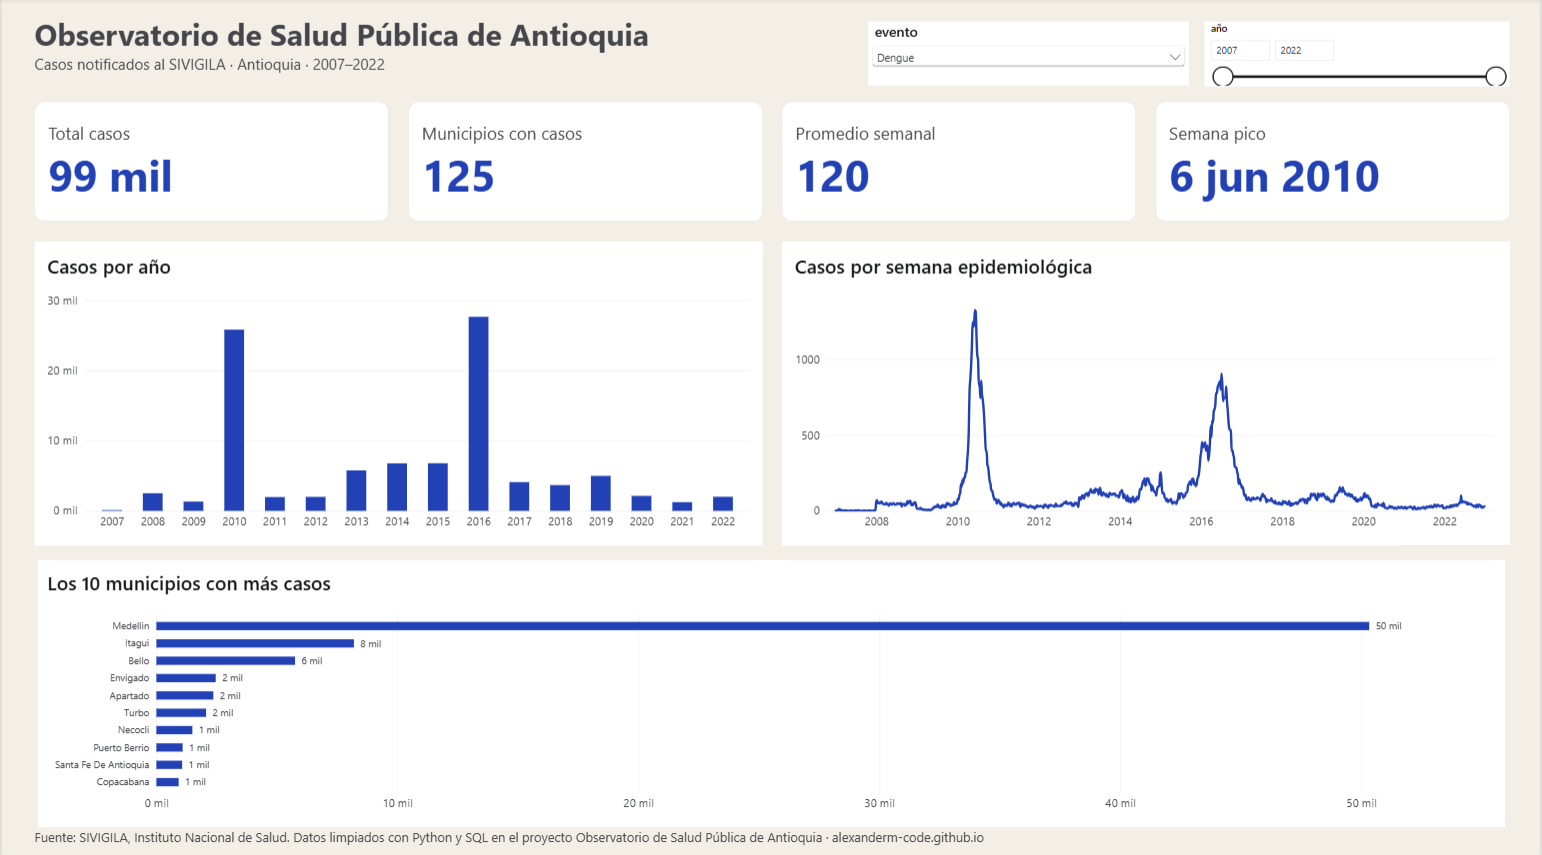
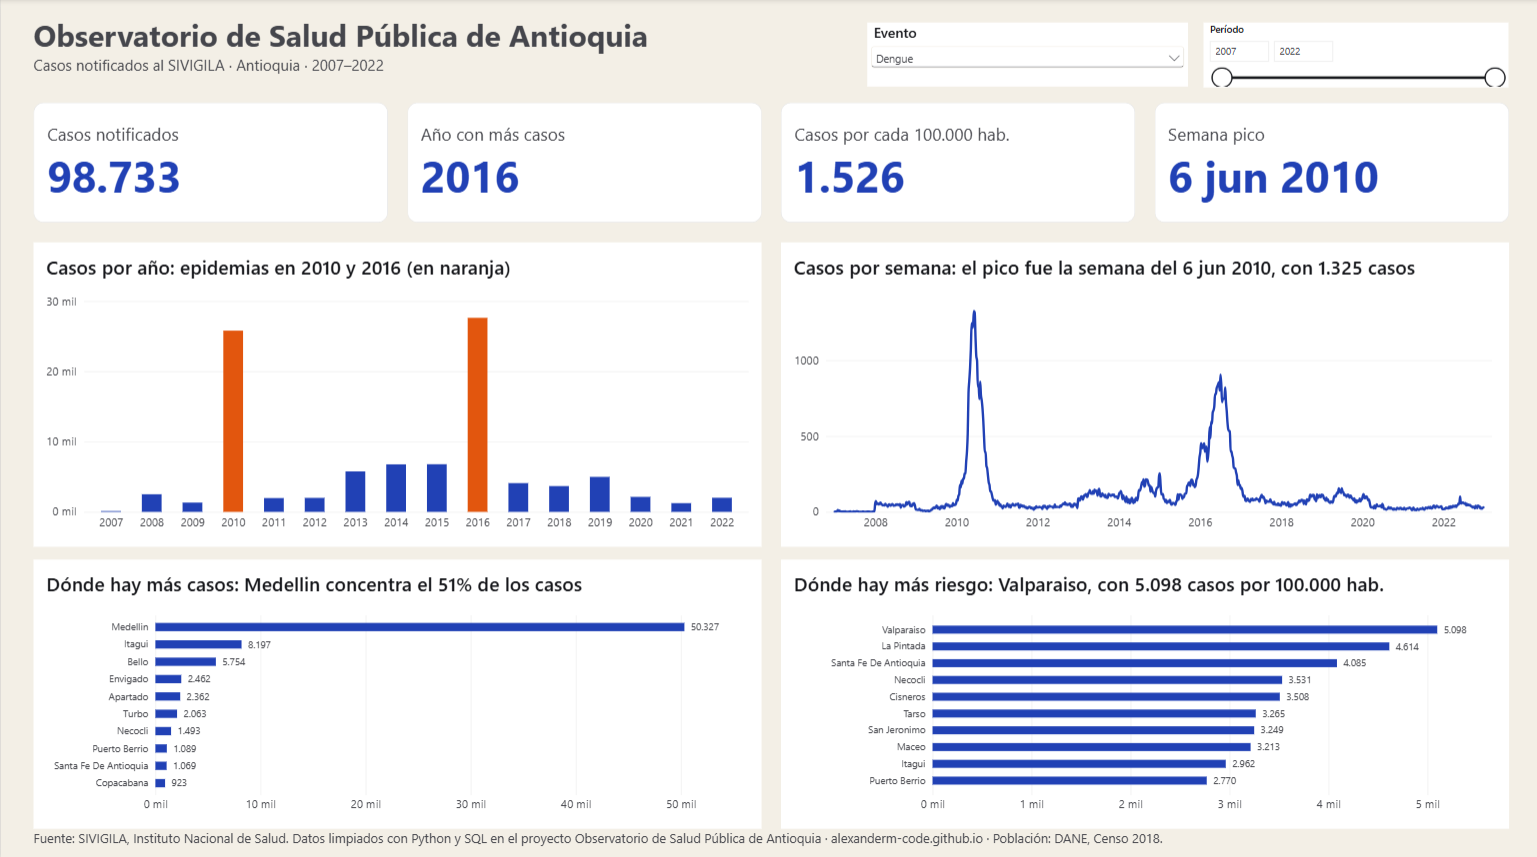
README: nueva captura y descripción del tablero de Power BI; población por municipio

diff --git a/README.md b/README.md
@@ -109,7 +109,7 @@ pytest -v
 
 ## Dashboards
 
-- **Power BI:** `powerbi/observatorio_salud_antioquia.pbix`, con medidas DAX para total de casos, municipios, promedio semanal y semana pico, y filtros por evento y año.
+- **Power BI:** `powerbi/observatorio_salud_antioquia.pbix`. Modelo con dos tablas (casos y población del Censo 2018), medidas DAX para la tasa por 100.000 habitantes, el año y la semana pico, años epidémicos resaltados con formato condicional y títulos dinámicos que cambian con el evento elegido.
 
   ![Tablero de Power BI del observatorio](docs/img/powerbi-dashboard.png)
 - **Data Studio (antes Looker Studio):** [tablero público](https://datastudio.google.com/reporting/fa318396-d03e-4a63-96a4-4c17ff79d889) con filtros por evento y año, casos por año, curva semanal y los 10 municipios con más casos. Usa `powerbi/looker_casos_antioquia.csv`, un archivo único con los nombres ya unidos.
